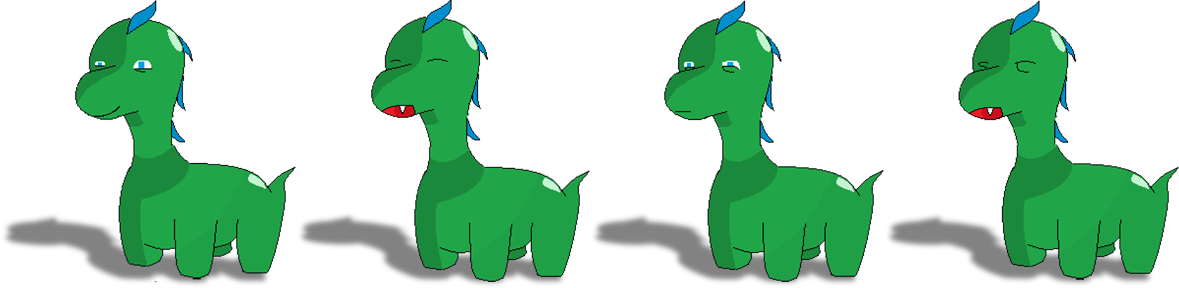
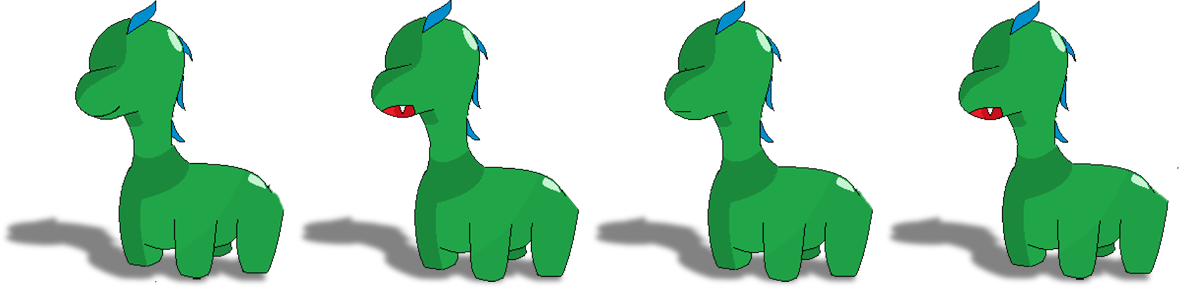
dino mom blink animation

diff --git a/demo_12/js/common.js b/demo_12/js/common.js
@@ -127,6 +127,16 @@ DinoEggs.Game.prototype = {
         //dino mom
         
         this.dino = this.game.add.sprite(this.game.width-300, 275, 'dino');
+        m_eyes = this.game.add.sprite(93,59, 'm_eyes');
+        m_eyes.animations.add('blinking');
+        m_eyes.animations.play('blinking', 5, true);
+        this.dino.addChild(m_eyes);
+        m_tail = this.game.add.sprite(280,210, 'm_tail');
+        m_tail.anchor.setTo(0.5,1);
+        m_tail.animations.add('wag');
+        m_tail.animations.play('wag', 3, true);
+        this.dino.addChild(m_eyes);
+        this.dino.addChild(m_tail);
         var move = this.dino.animations.add('move',['mom_talk1.png','mom_talk2.png','mom_talk3.png','mom_talk4.png'],24,true);
         
         //  Rocks group
@@ -661,17 +671,17 @@ DinoEggs.Game.prototype = {
         }else{
 
             hatchling = this.game.add.sprite(egg_x,this.game.world.height-200, 'hatchling');
-            eyes = this.game.add.sprite(81,18, 'eyes');
-            eyes.anchor.setTo(0.6,0.45);
-            eyes.animations.add('blinking');
-            eyes.animations.play('blinking', 5, true);
-            hatchling.addChild(eyes);
-            tail = this.game.add.sprite(23,68, 'tail');
-            tail.anchor.setTo(1,0);
-            tail.animations.add('wag');
-            tail.animations.play('wag', 3, true);
-            hatchling.addChild(eyes);
-            hatchling.addChild(tail);
+            h_eyes = this.game.add.sprite(81,18, 'h_eyes');
+            h_eyes.anchor.setTo(0.6,0.45);
+            h_eyes.animations.add('blinking');
+            h_eyes.animations.play('blinking', 5, true);
+            hatchling.addChild(h_eyes);
+            h_tail = this.game.add.sprite(23,68, 'h_tail');
+            h_tail.anchor.setTo(1,0);
+            h_tail.animations.add('h_wag');
+            h_tail.animations.play('h_wag', 3, true);
+            hatchling.addChild(h_eyes);
+            hatchling.addChild(h_tail);
         }
         //hatchling.anchor.setTo(0.5, 0.5);
         hatchling.animations.add('run');

diff --git a/demo_12/js/Preload.js b/demo_12/js/Preload.js
@@ -63,13 +63,15 @@ DinoEggs.Preload.prototype = {
         this.load.image('ground', 'assets/transparentplatform.png');
         this.load.atlasJSONHash('egg', 'assets/eggs/eggSheet.png','assets/eggs/egg.json');
         this.load.spritesheet('hatchling', 'assets/hatchling/hatchlingSheet.png', 91, 89.5);
-        this.load.spritesheet('eyes', 'assets/hatchling/eyes.png', 28, 22);
-        this.load.spritesheet('tail', 'assets/hatchling/tail.png', 20, 17);
+        this.load.spritesheet('h_eyes', 'assets/hatchling/eyes.png', 28, 22);
+        this.load.spritesheet('h_tail', 'assets/hatchling/tail.png', 20, 17);
         this.load.spritesheet('hatchling_sad', 'assets/hatchling/sadhatchlingSheet.png', 91, 89);
         this.load.spritesheet('triplets', 'assets/hatchling/tripletSheet.png', 80, 87.5);
         this.load.atlasJSONHash('hatchling_intro_anim', 'assets/hatchling/hatchlingAtlas.png', 'assets/hatchling/hatchlingAtlas.json');
         this.load.image('star', 'assets/star.png');
         this.load.atlasJSONHash('dino', 'assets/dinoMom/mom_talk.png','assets/dinoMom/mom_talk.json');
+        this.load.spritesheet('m_eyes', 'assets/dinoMom/eyes.png', 63, 15);
+        this.load.spritesheet('m_tail', 'assets/dinoMom/tail.png', 29, 41);
         this.load.atlasJSONHash('dino_intro_anim', 'assets/dinoMom/dinoMomIntro.png','assets/dinoMom/dinoMomIntro.json');
 
         this.load.image('sky', 'assets/happysky.jpg');

diff --git a/demo_12/js/MainMenu.js b/demo_12/js/MainMenu.js
@@ -21,11 +21,22 @@ DinoEggs.MainMenu.prototype = {
          //game logo
         this.logo = this.game.add.sprite(this.game.world.width*0.5,this.game.world.height*0.25, 'logo');
         this.logo.anchor.set(0.5);
-        this.logo.scale.setTo(0.5,0.5);
         
         //logo tween
-        var logoTween = this.game.add.tween(this.logo.scale).to({ x: 0.7,y:0.8}, 5000, Phaser.Easing.Bounce.Out,true).loop(true);
-        
+        //var logoTween = this.game.add.tween(this.logo.scale).to({ x: 0.7,y:0.8}, 5000, Phaser.Easing.Bounce.Out,true).loop(true);
+        var a = this,
+        b = 350;
+        this.logo.alpha = 0, this.logo.scale.set(1.3, 1.3), this.game.add.tween(this.logo).to({
+            alpha: 1
+        }, 300, Phaser.Easing.Cubic.Out, !0, b), this.game.add.tween(this.logo.scale).to({
+            x: 1,
+            y: 1
+        }, 600, Phaser.Easing.Back.Out, !0, b).onComplete.addOnce(function() {
+            a.game.add.tween(a.logo.scale).to({
+                y: .94,
+                x: 1.06
+            }, 800, Phaser.Easing.Sinusoidal.InOut, !0, 0, 1e3, !0)
+        })
         
         
         //init high score

diff --git a/demo_12/index.html b/demo_12/index.html
@@ -2,7 +2,7 @@
 <html lang="en"> 
 <head> 
 	<meta charset="UTF-8" />
-	<title>Math-e-saurs</title>
+	<title>Save The Baby Dino</title>
     <script src="js/phaser.js"></script>
     <script src="https://graspablemath.com/shared/libs/gmath/gm-inject.js"></script>
     <script src="js/problemSet.js"></script>
